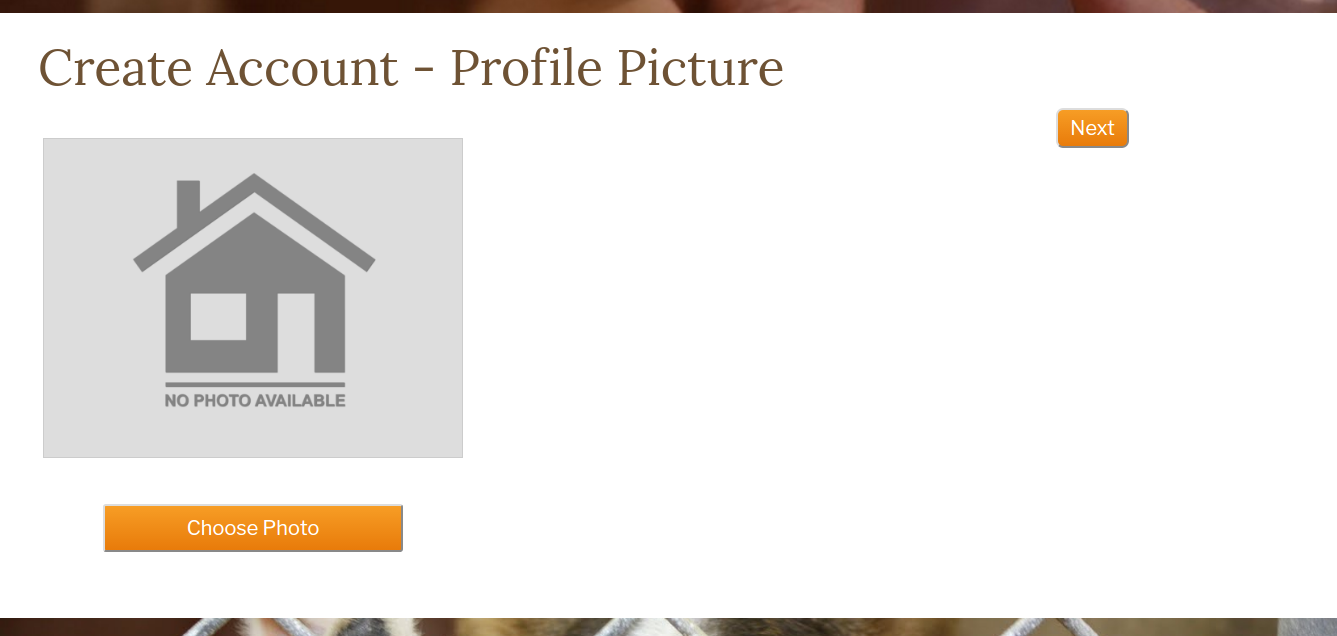
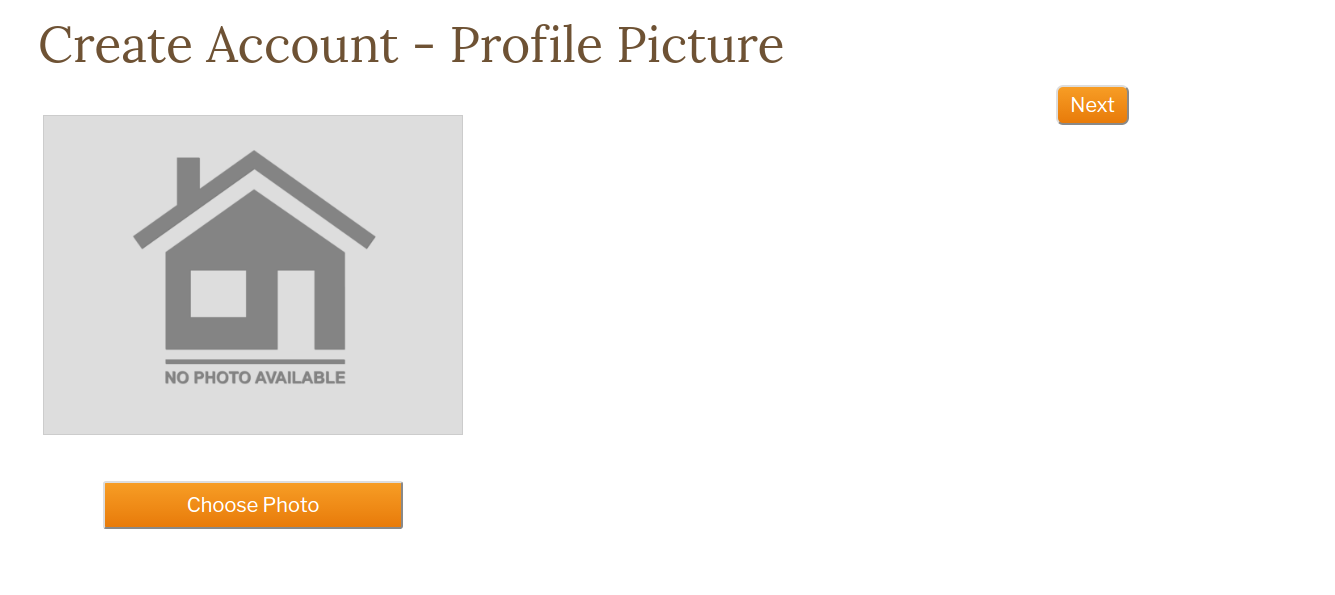
readme

diff --git a/README.md b/README.md
@@ -20,18 +20,22 @@ Signing up involves traversing through several information-gathering forms, incl
 ![signup basic info](app/assets/images/readme/signup_basic.png)
 Fig 3. Signup - basic information
 
+
+![signup upload profile photo](app/assets/images/readme/signup_upload_profile_photo.png)
+Fig 4. Signup - upload profile photo
+
 ![signup category](app/assets/images/readme/signup_category.png)
-Fig 4. Signup - select organization's category
+Fig 5. Signup - select organization's category
 
 ![signup items](app/assets/images/readme/signup_items.png)
-Fig 5. Signup - select needed items and create account
+Fig 6. Signup - select needed items and create account
 
 Sensitive information is kept out of the front end of the app. Custom authentication methods are used to store hashed and salted passwords. The app makes API calls to the SessionController to fetch or create users.
 
 There are also two "tour" buttons on the homepage, as well as "Guest Login" link in the header for guests to log in and experience the site as if they have an account.
 
 ![tour button](app/assets/images/readme/tour.png)
-Fig 6. Log in as guest
+Fig 7. Log in as guest
 
 On the back-end, user information (contact info, photo url, and description) are stored in one table. User is linked to the categories by establishing a user-category join model, and similarly with items via user-items join model.
 
@@ -39,7 +43,7 @@ On the back-end, user information (contact info, photo url, and description) are
 Once the user is logged in, they will be brought to the index page, which displays all the participating organizations. The user can also return to the index page from elsewhere by clicking on the heart logo and "Care"  on the top left corner of the header. From here, the user can click on a picture with the logo of the organization and be directed to that organization's "registry". The index is styled using the React Masonry library which animates the entrance of the organization profiles.
 
 ![Index](app/assets/images/readme/index.png)
-Fig 7. Index
+Fig 8. Index
 
 #### Search
 In the center of the header there is a search bar which brightens when the user interacts with it by hovering with the mouse or clicking in the search field.
@@ -53,10 +57,10 @@ end
 ```
 
 ![search-bar](app/assets/images/readme/search_ignored.png)
-Fig 8. Search bar inactive
+Fig 9. Search bar inactive
 
 ![Index](app/assets/images/readme/search_children.png)
-Fig 9. Search keyword "children"
+Fig 10. Search keyword "children"
 
 
 The backend views utilizes Jbuilder to generate the appropriate JSON data feeds. The index view uses this syntax:
@@ -93,7 +97,7 @@ The registry shows the organization's title, category, address, purpose, and giv
 ![registry info](app/assets/images/readme/registry_2.png)
 
 ![registry location](app/assets/images/readme/registry_3.png)
-Fig 10. Registry shows profile photo, info, and location
+Fig 11. Registry shows profile photo, info, and location
 
 
 API keys are kept out of public access via the use of the figaro gem.
@@ -104,10 +108,10 @@ API keys are kept out of public access via the use of the figaro gem.
 The organization can edit their info any time by accessing their profile via the link on the top-right corner of the header, to the left of the logout link. The user has to be logged in to see this link.
 
 ![profile basic info](app/assets/images/readme/profile_basic.png)
-Fig 13. Change information
+Fig 12. Change information
 
 ![profile photo](app/assets/images/readme/profile_photo.png)
-Fig 14. Change profile photo
+Fig 13. Change profile photo
 
 Category and Items selections are pre-selected based on current information.
 
